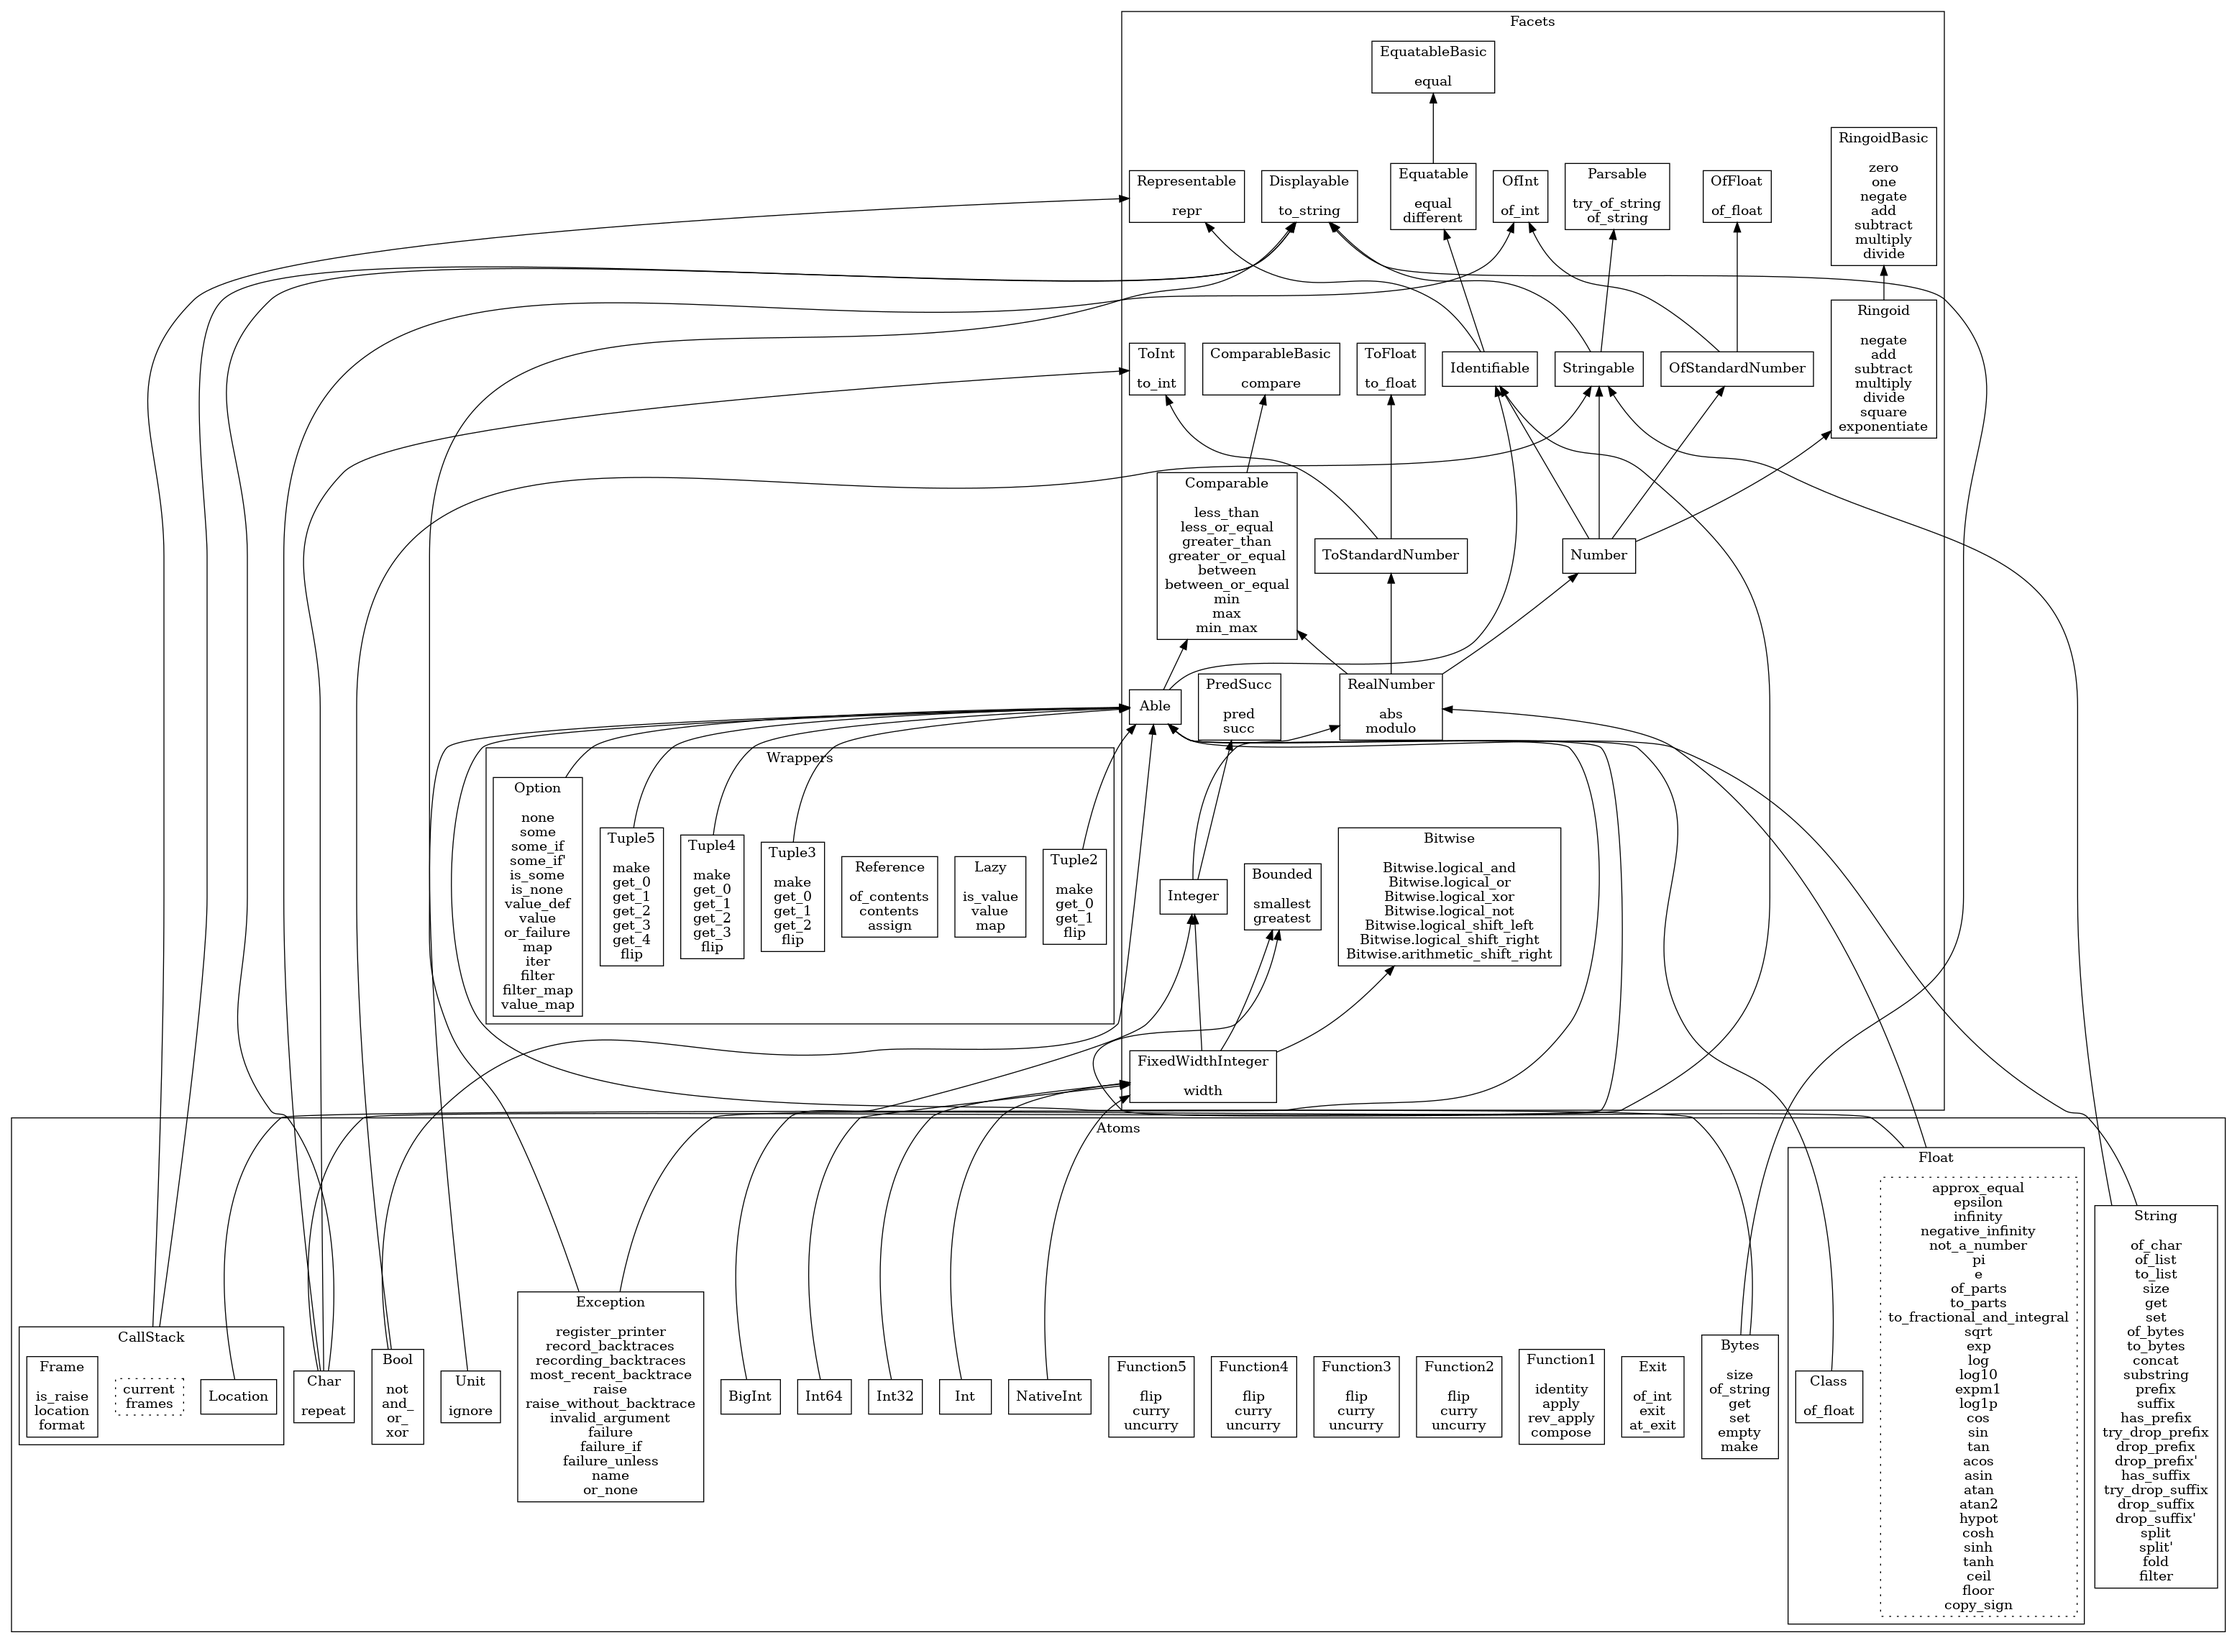
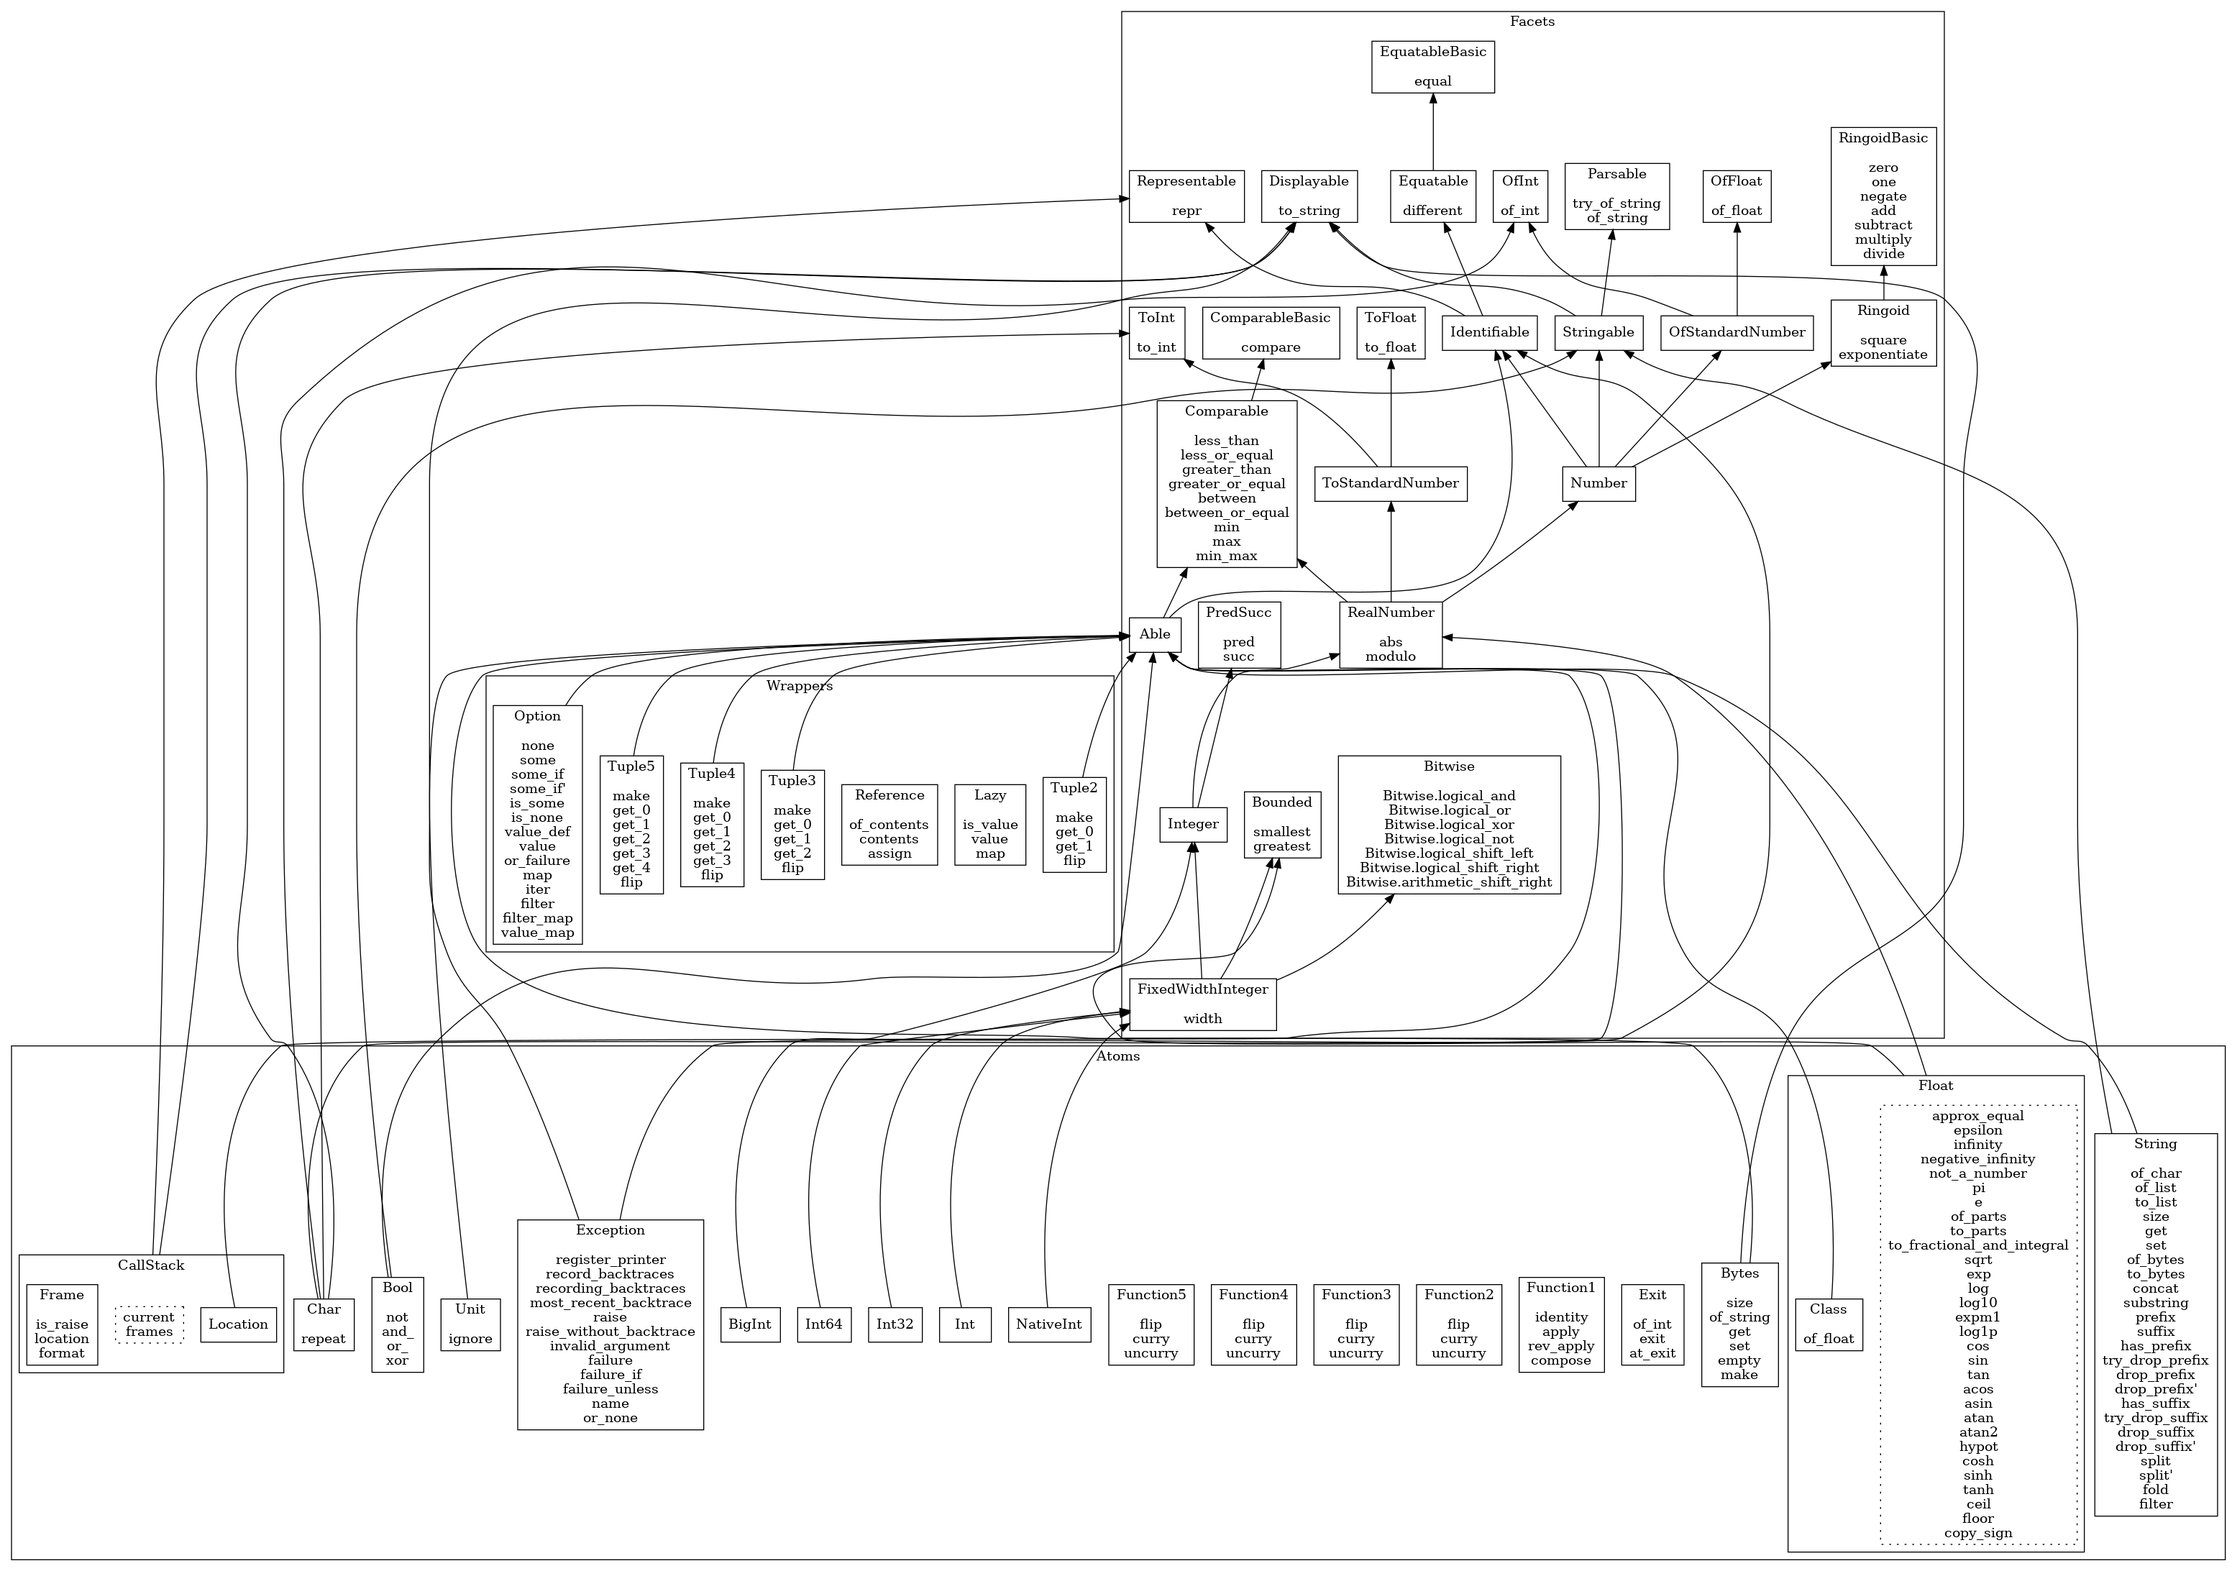
Generate operators properly; don't repeat base values just for operators

diff --git a/geni/__main__.py b/geni/__main__.py
@@ -7,7 +7,7 @@ import textwrap
 
 from .facets import Facet, Type, OCamlException, Value, UnlabelledParameter, LabelledParameter, DelegateParameter, Extension, variadic_type_marker as t, abcd, max_arity, generate, indent
 
-values = {}
+vals = {}
 
 def val(name, *type_chain, operator=None):
     def make_param(param):
@@ -18,7 +18,7 @@ def val(name, *type_chain, operator=None):
             return LabelledParameter(label, type_)
         elif isinstance(param, tuple):
             if param[0] is DelegateParameter:
-                return DelegateParameter(values, param[1])
+                return DelegateParameter(vals, param[1])
             else:
                 assert False  # pragma nocover
         else:
@@ -29,15 +29,15 @@ def val(name, *type_chain, operator=None):
         type_chain=(make_param(param) for param in type_chain),
         operator=operator,
     )
-    if name not in values:
-        values[name] = value
+    if name not in vals:
+        vals[name] = value
     return value
 
 
 def ext(name, *, members, requirements):
     def make_requirement(req):
         if isinstance(req, str):
-            return values[req]
+            return vals[req]
         elif isinstance(req, Value):
             return req
         else:
@@ -49,7 +49,7 @@ def ext(name, *, members, requirements):
         name=name,
         members=(member for member in members if isinstance(member, Value)),
         requirements=(make_requirement(requirement) for requirement in requirements),
-        basic_production=(values[member] for member in members if isinstance(member, str)),
+        basic_production=(vals[member] for member in members if isinstance(member, str)),
     )
 
 
@@ -70,6 +70,7 @@ def facet(
         submodule=None,
         bases=[],
         values=[],
+        operators={},
         extensions=[],
         test_examples=[],
         test_requirements=[],
@@ -81,6 +82,7 @@ def facet(
         submodule=submodule,
         bases=bases,
         values=values,
+        operators={name: vals[value] for (name, value) in operators.items()},
         extensions=extensions,
         test_examples=test_examples,
         test_requirements=test_requirements,
@@ -241,9 +243,12 @@ equatable = facet(
     "Equatable",
     bases=[equatable_basic],
     values=[
-        val("equal", t, t, deleg("equal"), "bool", operator="="),  # @todo Do not repeat "equal", just add the operator
-        val("different", t, t, deleg("equal"), "bool", operator="<>"),
+        val("different", t, t, deleg("equal"), "bool"),
     ],
+    operators={
+        "=": "equal",
+        "<>": "different",
+    },
     extensions=[
         ext("Different", members=["different"], requirements=["equal"]),
     ],
@@ -294,6 +299,12 @@ comparable = facet(
         val("max", t, t, deleg("compare"), t),
         val("min_max", t, t, deleg("compare"), f"{t} * {t}"),
     ],
+    operators={
+        "<": "less_than",
+        "<=": "less_or_equal",
+        ">": "greater_than",
+        ">=": "greater_or_equal",
+    },
     extensions=[
         ext(
             "GreaterLessThan",
@@ -320,6 +331,7 @@ ringoid_basic = facet(
     values=[
         val("zero", t),
         val("one", t),
+        # val("posate", t, t),
         val("negate", t, t),
         val("add", t, t, t),
         val("subtract", t, t, t),
@@ -346,16 +358,17 @@ ringoid = facet(
     "Ringoid",
     bases=[ringoid_basic],
     values=[
-        # @todo Don't repeat these values, just add the operators
-        # val("posate", t, t, operator="~+"),
-        val("negate", t, t, operator="~-"),
-        val("add", t, t, t, operator="+"),
-        val("subtract", t, t, t, operator="-"),
-        val("multiply", t, t, t, operator="*"),
-        val("divide", t, t, t, operator="/"),
         val("square", t, t),
-        val("exponentiate", t, "int", t, operator="**")
+        val("exponentiate", t, "int", t),
     ],
+    operators={
+        "~-": "negate",
+        "+": "add",
+        "-": "subtract",
+        "*": "multiply",
+        "/": "divide",
+        "**": "exponentiate",
+    },
     extensions=[
         ext(
             "Square",
@@ -492,8 +505,11 @@ real_number = facet(
     bases=[number, comparable, to_standard_numbers],
     values=[
         val("abs", t, t),
-        val("modulo", t, t, t, operator="mod"),
+        val("modulo", t, t, t),
     ],
+    operators={
+        "mod": "modulo",
+    }
 )
 
 integer = facet(

diff --git a/geni/facets.py b/geni/facets.py
@@ -30,7 +30,7 @@ class Facet:
             prefix, name,
             variadic,
             submodule,
-            bases, values, extensions,
+            bases, values, operators, extensions,
             test_examples, test_requirements,
         ):
         self.prefix = prefix
@@ -46,7 +46,7 @@ class Facet:
             self.values,
             itertools.chain.from_iterable(extension.members for extension in self.extensions),
         ))
-        self.operators = [item for item in self.all_items if item.operator is not None]
+        self.operators = dict(operators)
         self.test_examples = list(test_examples)
         self.test_requirements = list(test_requirements)
 
@@ -129,12 +129,12 @@ class Facet:
 
     def __operators_specification_items(self):
         yield self.__operators_s0_mod_type()
-        if len(self.operators) > 0:
+        if self.__has_own_operators():
             yield self.__operators_make0_specification()
 
     def __operators_implementation_items(self):
         yield self.__operators_s0_mod_type()
-        if len(self.operators) > 0:
+        if self.__has_own_operators():
             yield self.__operators_make0_implementation()
 
     def __operators_s0_mod_type(self):
@@ -145,27 +145,27 @@ class Facet:
         for base in self.bases:
             if base.__has_operators():
                 yield f"include {base.contextualized_name(self.prefix)}.Operators.S0 with type t := t"
-        for operator in self.operators:
-            yield f"val ( {operator.operator} ): { operator.value_type(0, 't')}"
+        for (name, value) in self.operators.items():
+            yield f"val ( {name} ): { value.value_type(0, 't')}"
 
     def __operators_make0_specification(self):
         yield "module Make0(M: sig"
         yield "  type t"
-        for operator in self.operators:
-            yield f"  val {operator.name}: {operator.value_type(0, 't')}"
+        for (name, value) in self.operators.items():
+            yield f"  val {value.name}: {value.value_type(0, 't')}"
         yield "end): sig"
-        for operator in self.operators:
-            yield f"  val ( {operator.operator} ): {operator.value_type(0, 'M.t')}"
+        for (name, value) in self.operators.items():
+            yield f"  val ( {name} ): {value.value_type(0, 'M.t')}"
         yield "end"
 
     def __operators_make0_implementation(self):
         yield "module Make0(M: sig"
         yield "  type t"
-        for operator in self.operators:
-            yield f"  val {operator.name}: {operator.value_type(0, f'{type_params(0)}t')}"
+        for (name, value) in self.operators.items():
+            yield f"  val {value.name}: {value.value_type(0, f'{type_params(0)}t')}"
         yield "end) = struct"
-        for operator in self.operators:
-            yield f"  let ( {operator.operator} ) = M.{operator.name}"
+        for (name, value) in self.operators.items():
+            yield f"  let ( {name} ) = M.{value.name}"
         yield "end"
 
     # Core contents
@@ -295,6 +295,8 @@ class Facet:
                 + "".join(f" and module {a.upper()} := {a.upper()}" for a in abcd(arity))
             )
         t = f"{type_args(arity)}t"
+        # @todo When we drop OCaml versions that don't support it, we can "include S0 with type t := (A.t, B.T, ...) t"
+        # (OCaml 4.02 gives "Only type constructors with identical parameters can be substituted.", OCaml 4.08 accepts it)
         for item in self.test_examples:
             yield f"val {item.name}: {item.value_type(0, t)}"
 
@@ -629,6 +631,10 @@ class Value:
         assert len(self.__type_chain) > 0
         self.__parameters = self.__type_chain[:-1]
         self.__operator = operator
+
+    @property
+    def type_chain(self):
+        return self.__type_chain
 
     @property
     def name(self):
